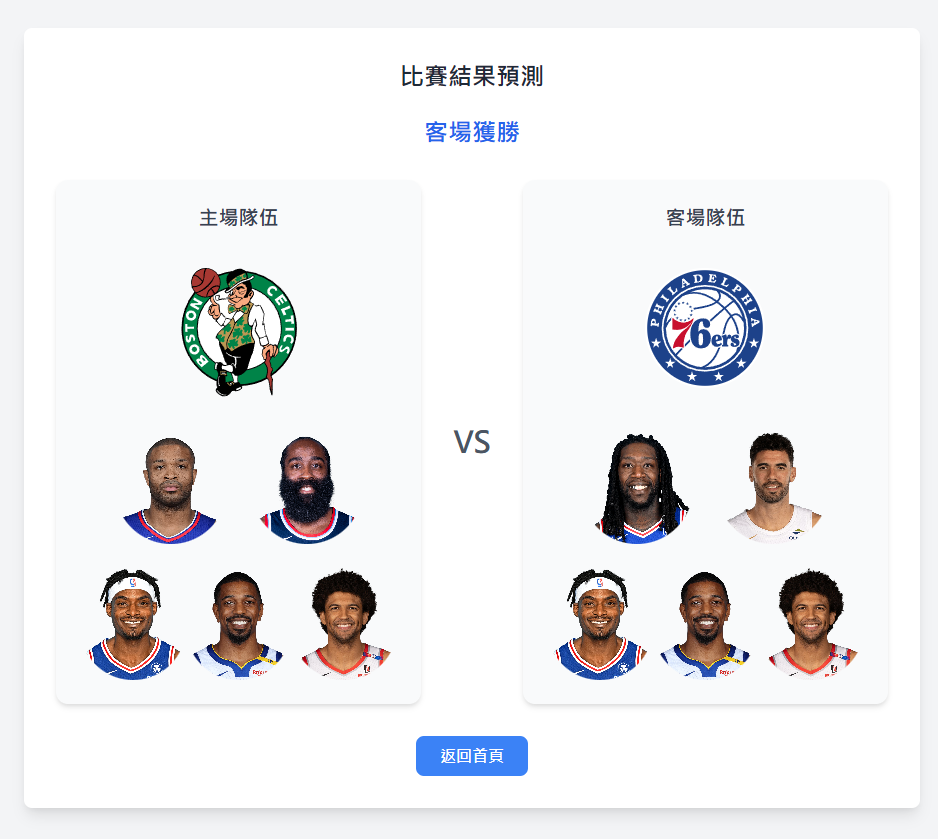
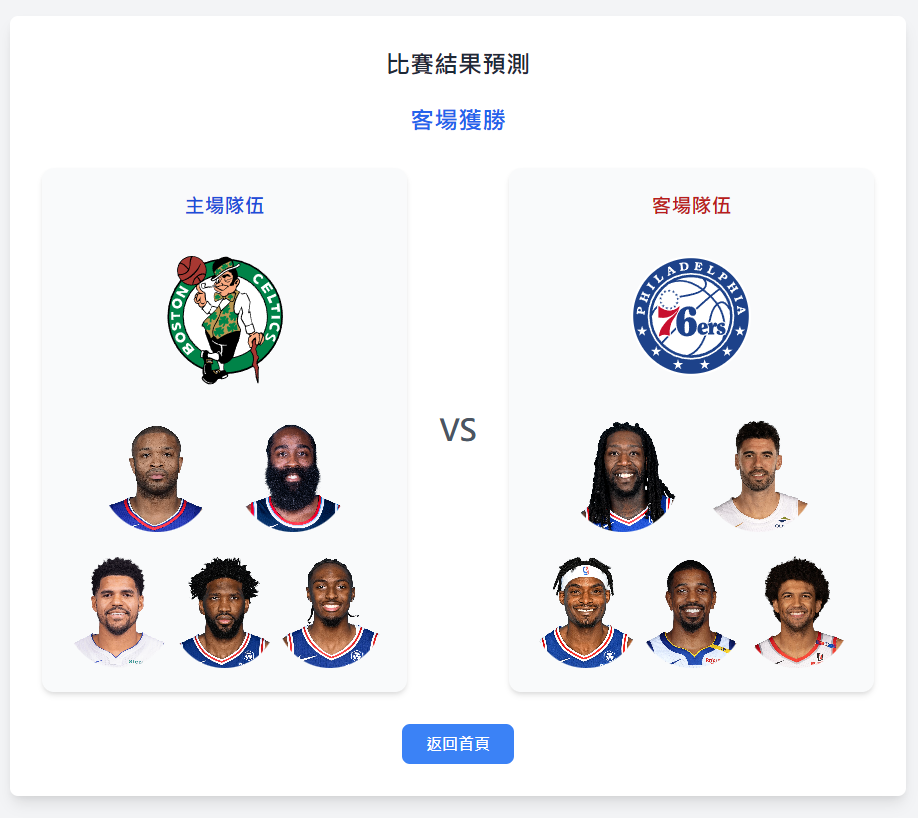
fix: players img

diff --git a/templates/predict.html b/templates/predict.html
@@ -53,7 +53,7 @@
                             </div>
                             <!-- 下排3張 -->
                             <div class="flex justify-between">
-                                {% for player_id in players2[2:] %}
+                                {% for player_id in players1[2:] %}
                                 <a
                                     href="https://www.nba.com/stats/player/{{ player_id }}"
                                 >
